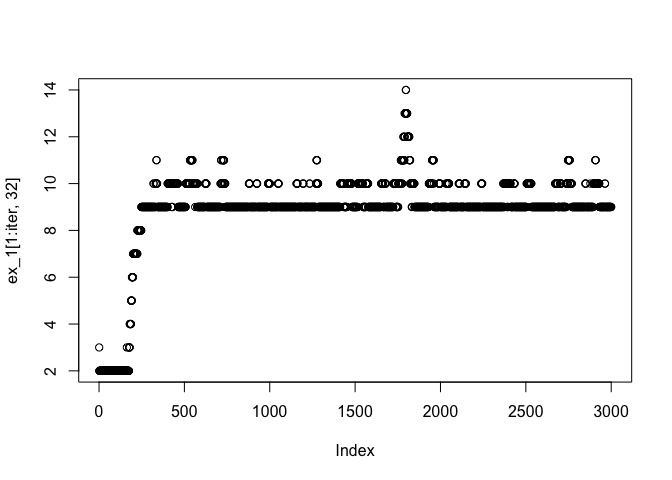
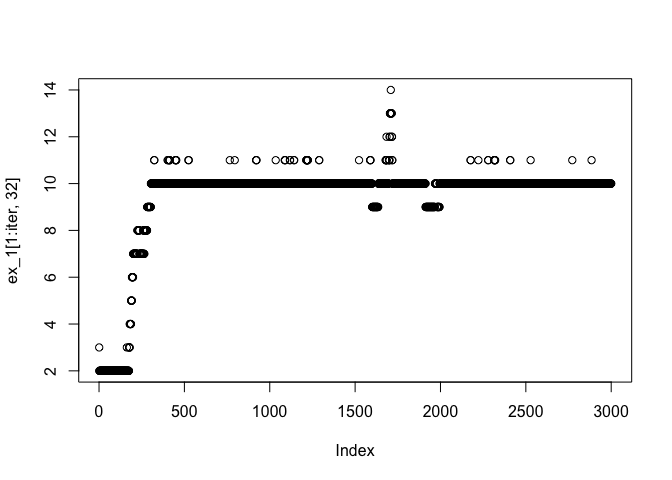
Update comments to better reflect the no burnin vs. burnin plots

diff --git a/README.md b/README.md
@@ -64,26 +64,26 @@ ex_1 = rjmcmc_nested(iter = iter,k = 3,sig2 = 1,x = x,kmax = 30)
 # Plots without burn-in
 
 ``` r
-# Example plot output with burn-in of 500
+# Example plot output without burn-in
 plot(ex_1[1:iter,32])
 ```
 
 <img src="man/figures/README-plots-without-burnin-1.png" width="100%" />
 
 ``` r
-# Table of the posterior probability
+# Table of the posterior probability without burnin
 table(ex_1[1:iter,32])/(iter)
 #> 
 #>            2            3            4            5            6            7 
-#> 0.0576666667 0.0020000000 0.0026666667 0.0016666667 0.0023333333 0.0083333333 
+#> 0.0576666667 0.0020000000 0.0026666667 0.0016666667 0.0023333333 0.0166666667 
 #>            8            9           10           11           12           13 
-#> 0.0076666667 0.6946666667 0.1870000000 0.0256666667 0.0053333333 0.0043333333 
+#> 0.0106666667 0.0430000000 0.8340000000 0.0240000000 0.0016666667 0.0033333333 
 #>           14 
-#> 0.0006666667
+#> 0.0003333333
 ```
 
-View the plots first without burn-in to determine what burn-in should
-be:
+View all of the trace plots first without burn-in to determine what
+burn-in should be:
 
 ``` r
 par(mfrow = c(6,5), mar = c(2,2,1,1))
@@ -111,7 +111,7 @@ plot(ex_1[-c(1:burnin),32])
 table(ex_1[-c(1:burnin),32])/(iter - burnin)
 #> 
 #>      9     10     11     12     13     14 
-#> 0.7592 0.1984 0.0300 0.0064 0.0052 0.0008
+#> 0.0428 0.9272 0.0236 0.0020 0.0040 0.0004
 ```
 
 ``` r
